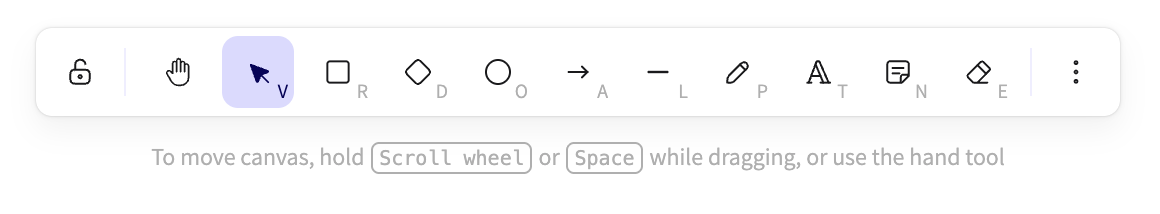
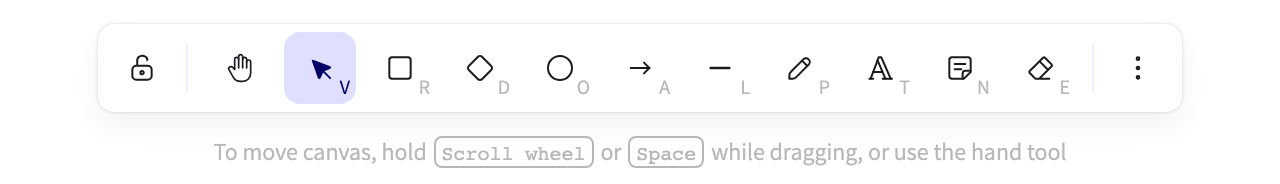
Fresh toolbar capture, sharper Prompt 3 hint, video import tool with credits
- Case study: the toolbar figure is now captured from the live practice app (it
  matches each person's copy), and the alt text names the sticky note tool.
- Prompt 3's fallback asks to check that the rectangle stays after you let go,
  on the module page and the agenda.
- tools/import-videos.mjs brings in a video delivery: checks each sha256, copies
  the video, captions and poster, and fills in content/videos.json (poster,
  duration, credits, note). The video slot shows the credits the recorded run
  used, and falls back to the delivered duration without ffprobe.

diff --git a/README.md b/README.md
@@ -64,7 +64,15 @@ Theme through the kit's custom properties (`--hz-*`), which `src/assets/theme.cs
 
 ## Videos
 
-`content/videos.json` maps each module (by name) and `uninstall` to a file in `content/videos/`, with its captions (`.vtt`, which also becomes the transcript at the end of the page) and a note on what's real in it. Until the `.mp4` is there, the page shows nothing where the video goes. Keep each file under 100 MB.
+`content/videos.json` maps each module (by name) and `uninstall` to a file in `content/videos/`, with its captions (`.vtt`, which also becomes the transcript at the end of the page), a poster, a note on what's real in it and the AI credits the recorded run used. Until the `.mp4` is there, the page shows nothing where the video goes. Keep each file under 100 MB.
+
+To bring in a delivery (a folder with `<slug>.mp4`, `<slug>.vtt`, `<slug>-poster.jpg` and a `videos.json` that has each one's sha256, duration, credits and note):
+
+```sh
+node tools/import-videos.mjs <the delivery folder> [--only setup,mark-up]
+```
+
+It checks each video against its sha256, copies the files into `content/videos/` and fills in `content/videos.json`. Then build and check.
 
 ## This in practice
 

diff --git a/content/pages/modules/case-study.md b/content/pages/modules/case-study.md
@@ -16,8 +16,8 @@ Excalidraw is the one project we work on together tonight. It's real, open-sourc
 
 ```figure
 still: intro/excalidraw-toolbar.png
-alt: Excalidraw's toolbar: a lock, the hand and the selection arrow, then the shape, arrow, line, pencil and text tools and the eraser, each with a small letter shortcut, and a menu at the end. Under it: "To move canvas, hold Scroll wheel or Space while dragging, or use the hand tool".
-caption: Today's toolbar, at the top of the canvas.
+alt: Excalidraw's toolbar: a lock, the hand and the selection arrow, then the shape, arrow, line, pencil, text and sticky note tools and the eraser, each with a small letter shortcut, and a menu at the end. Under it: "To move canvas, hold Scroll wheel or Space while dragging, or use the hand tool".
+caption: The toolbar in your copy, at the top of the canvas.
 ```
 
 It's the row of tools at the top of the canvas. It does a lot in a small space: the lock, the hand, selection, a row of drawing tools with letter shortcuts, and a menu. In our practice brief, people testing it got stuck in a few places. You'll read their notes, mark up a screenshot of what confused them, and fix it.

diff --git a/content/pages/modules/test-in-the-browser.md b/content/pages/modules/test-in-the-browser.md
@@ -22,7 +22,7 @@ The agent picks tools and drags on the canvas by itself. Something isn't right, 
 
 ## If it doesn't
 
-- **It says everything works.** Say: "Pick the rectangle tool, drag on the canvas, and check that a rectangle appears. If it doesn't, find out why and fix it."
+- **It says everything works.** Say: "Pick the rectangle tool, drag on the canvas, and check that the rectangle stays after you let go. If it doesn't, find out why and fix it."
 - **The browser isn't shared with the agent.** Say: "Open the localhost link in the integrated browser and test it there."
 
 ## On your own work

diff --git a/content/pages/agenda.md b/content/pages/agenda.md
@@ -183,7 +183,7 @@ Draw a few shapes in the integrated browser to test it. If something's broken, f
 
 **Watch for:** it notices shapes don't stay after a drag, fixes the cause, draws one that stays, and commits.
 
-**If it fails:** "Pick the rectangle tool, drag on the canvas, and check that a rectangle appears. If it doesn't, find out why and fix it."
+**If it fails:** "Pick the rectangle tool, drag on the canvas, and check that the rectangle stays after you let go. If it doesn't, find out why and fix it."
 
 **How long:** 8 min.
 
